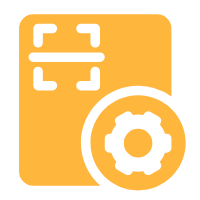
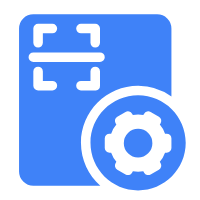
新增相关路由配置和静态图标

diff --git a/src/router/index.js b/src/router/index.js
@@ -87,6 +87,12 @@ const router = new Router({
       meta: { title: '个人资料' }
     },
     {
+      path: '/:department/all-applications',
+      name: 'AllApplications',
+      component: () => import('../../src/components/AllApplications.vue'),
+      meta: { title: '全部应用' }
+    },
+    {
       path: '/:department/project-code',
       name: 'ProjectCode',
       component: () => import('@/views/project/ProjectCode.vue'),
@@ -180,7 +186,7 @@ const router = new Router({
       path: '/:department/code/codeList',
       name: 'CodeList',
       component: () => import('@/views/code/CodeList.vue'),
-      meta: { title: '扫码记录日志时间列表' }
+      meta: { title: '资产扫码记录日志' }
     },
     {
       path: '/:department/code/config',
@@ -291,6 +297,18 @@ const router = new Router({
       component: () => import('../views/inventoryV1/InventoryDetailV1.vue'),
       meta: { title: '库存详情V1.0' }
     },
+    {
+      path: '/:department/inventoryDetailV2',
+      name: 'InventoryDetailV2',
+      component: () => import('../views/inventoryV1/InventoryDetailV2.vue'),
+      meta: { title: '库存详情V1.0' }
+    },
+    {
+      path: '/:department/inventory-scan-results',
+      name: 'InventoryScanResults',
+      component: () => import('@/views/inventoryV1/ScanResults.vue'),
+      meta: { title: '库存详情列表V1.0' }
+    },
     // 在 router/index.js 中添加路由
     {
       path: '/:department/inventory-outbound',
@@ -380,6 +398,12 @@ const router = new Router({
       path: '/:department/advanced-search',
       name: 'AdvancedSearch',
       component: () => import('../views/inventoryV1/AdvancedSearch.vue'),
+      meta: { title: '标签索引' }
+    },
+    {
+      path: '/:department/allTagsPage',
+      name: 'AllTagsPage',
+      component: () => import('../views/inventoryV1/AllTagsPage.vue'),
       meta: { title: '标签索引' }
     },
     {

diff --git a/src/App.vue b/src/App.vue
@@ -43,7 +43,9 @@ export default {
       const hiddenPaths = ['login', 'inventory', 'weeklyReport', 'chatDetail', 'chat_category',
         'post-detail', 'createGroup', 'DingtalkFilePreview','inventoryExtendInfoAdd',
         'InventoryExtendInfoView','InventoryExtendInfoEdit','vat-calculator',
-        'excelUpload','InventoryInfoEdit','advanced-search','download' ]
+        'excelUpload','InventoryInfoEdit','advanced-search','download','allTagsPage',
+        'all-applications','project-manage','task-manage','statistical-report',
+        'inventory-scan-results','config','codeList','AddStored','batch_scan_results']
       return !hiddenPaths.some(path => this.$route.path.includes(path))
     },
     notifications() {
